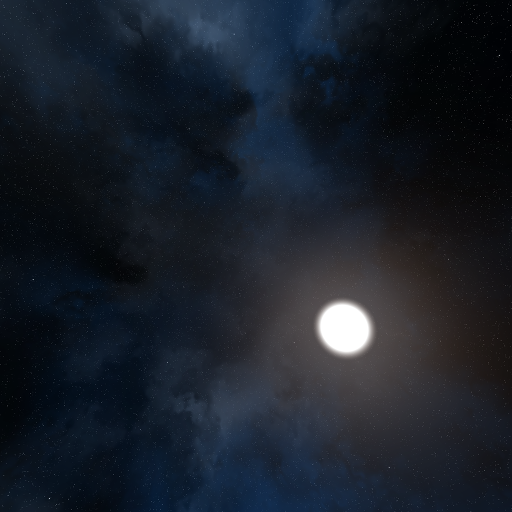
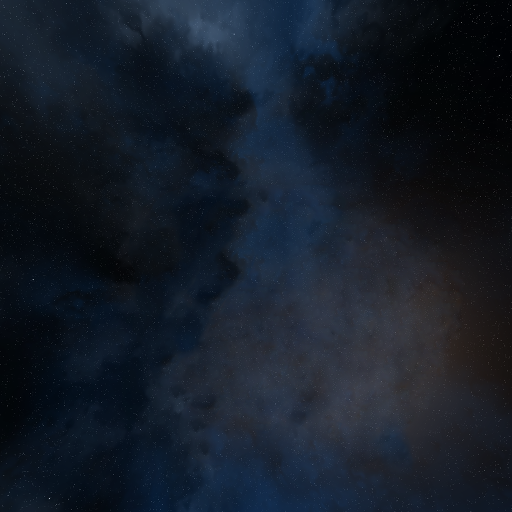
Fixed Skybox and Adjustments to the Camera
Fixed Skybox and Adjustments to the Camera

diff --git a/src/Camera/PerspectiveCamera.cpp b/src/Camera/PerspectiveCamera.cpp
@@ -4,19 +4,21 @@
 // initializes the camera
 void PerspectiveCamera::initialize(glm::vec3 centerPos1)
 {
+    distance = 30;
     // Computation for the perspective projection and view matrix
     glm::mat4 identity(1.0f); //Identity Matrix
-    projection = glm::perspective(glm::radians(60.0f), height / width, 0.1f, 100.f); //Projection Matrix
+    projection = glm::perspective(glm::radians(60.0f), height / width, 0.1f, 200.f); //Projection Matrix
 
     movement.x = 0;
     movement.y = 0;
     movement.z = 40.f;
 
-    cameraPos = glm::vec3(0, 0, -10); //Camera Position
+    cameraPos = glm::vec3(-distance, 0, 0); //Camera Position
     WorldUp = glm::vec3(0.f, 1.f, 0.f); //World Up Coordinates
 
     cameraPosMat = glm::translate(identity, cameraPos * -1.0f); //Camera Position Matrix
-    centerPos = glm::vec3(0.f, 3.f, 0.f); //Center Position Matrix
+    centerPos = centerPos1; //Center Position Matrix
+    //centerPos = glm::vec3(0.f, 3.f, 0.f); //Center Position Matrix
 
     F = glm::normalize(centerPos - cameraPos); //Forward Vector
     R = glm::normalize(glm::cross(F, WorldUp)); //Right Vector
@@ -96,17 +98,6 @@ void PerspectiveCamera::update(GLFWwindow* window, float deltaTime, glm::vec3 po
     //cameraPos.x = distance * cos(glm::radians(yaw)) + additional.x;
     //cameraPos.z = distance * sin(glm::radians(yaw)) + additional.z;
 
-    // clamps or limits the pitch and yaw so that the user cannot continuously rotate 
-    /*if (pitch > 90.f) {
-        pitch = 90.f;
-    }
-    else if (pitch < -90.f) {
-        pitch = -90.f;
-    }*/
-
-    /*if (yaw > 360.f || yaw < -360.f) {
-        yaw = 0.f;
-    }*/
     //}
     //else {
     //    firstMouse = true; // resets the firstMouse to initialize a new value on the mouse inputs later
@@ -123,11 +114,13 @@ void PerspectiveCamera::update(GLFWwindow* window, float deltaTime, glm::vec3 po
     U = glm::normalize(glm::cross(R, F));
     view = glm::lookAt(cameraPos, cameraPos + F, WorldUp);
 
-    if (glfwGetKey(window, GLFW_KEY_W) == GLFW_PRESS) {
+    // Moves based on keyboard input //
+    if (glfwGetKey(window, GLFW_KEY_W) == GLFW_PRESS) { // Front movement
        cameraPos.x += 20.f * F.x * deltaTime;
        cameraPos.z += 20.f * F.z * deltaTime;
        //cameraPos -= 20.f * F * deltaTime;
     }
+    
 
     /*if (glfwGetMouseButton(window, GLFW_MOUSE_BUTTON_1) == GLFW_PRESS) {*/
         glfwGetCursorPos(window, &xpos, &ypos);
@@ -143,7 +136,15 @@ void PerspectiveCamera::update(GLFWwindow* window, float deltaTime, glm::vec3 po
         lasty = ypos;
 
         yaw += xoffset * sens * deltaTime;
+        // moves the camera left or right depending on the yaw
+        /*cameraPos.x = distance * cos(glm::radians(yaw));
+        cameraPos.z = distance * sin(glm::radians(yaw));*/
+
         pitch += yoffset * sens * deltaTime;
+        // moves the camera upwards or downwards depending on the pitch
+        /*cameraPos.z = distance * cos(glm::radians(pitch));
+        cameraPos.y = distance * sin(glm::radians(pitch));*/
+
 
         /*Clamp Pitch so that it won't rotate endlessly upwards or downwards*/
         if (pitch > 89.0f)

diff --git a/src/main.cpp b/src/main.cpp
@@ -51,7 +51,7 @@ int main(void)
     // Create Player
     // Parameters for the Model3D "obj path, texture path, rgba or rgb, .vert path, .frag path, isPlayer"
     Player* player = new Player(
-        "3D/Models/UFO.obj",
+        "3D/Models/sus.obj",
         "3D/Textures/ufo_diffuse.png",
         "rgba",
         "Shaders/player.vert",
@@ -100,13 +100,13 @@ int main(void)
     OrthoCamera* oCam = new OrthoCamera();
 
     // the object transform
-    player->initVariables(glm::vec3(0, -5, 20), glm::vec3(1, 1, 1), glm::vec3(0.2f));
+    player->initVariables(glm::vec3(0, -7, 0), glm::vec3(1, -90, 1), glm::vec3(0.05f));
     planet->initVariables(glm::vec3(0, 7, -100), glm::vec3(0, 0, 0), glm::vec3(5.f));
     debris1->initVariables(glm::vec3(0, -5, 20), glm::vec3(0, 0, 0), glm::vec3(0.1f));
 
     // Initialize the values needed for the camera
-    pCam->initialize(glm::vec3(0, 0, -1));
-    oCam->initialize(glm::vec3(0, 0, -1));
+    pCam->initialize(glm::vec3(0, 0, 0));
+    oCam->initialize(glm::vec3(0, 0, 0));
 
     // Disables the Cursor
     glfwSetInputMode(window, GLFW_CURSOR, GLFW_CURSOR_DISABLED);
@@ -115,7 +115,7 @@ int main(void)
     float lastCDTime = glfwGetTime(); // Last time the camera was swaped
 
     /* Loop until the user closes the window */
-    while (!glfwWindowShouldClose(window))
+    while (!glfwWindowShouldClose(window) && glfwGetKey(window, GLFW_KEY_ESCAPE) != GLFW_PRESS)
     {
         /* Render here */
         glClear(GL_COLOR_BUFFER_BIT | GL_DEPTH_BUFFER_BIT);

diff --git a/src/Camera/PerspectiveCamera.h b/src/Camera/PerspectiveCamera.h
@@ -48,14 +48,6 @@ private:
 
     glm::vec3 WorldUp = glm::vec3(0, 1, 0);
 
-    double mousePosX;
-    double mousePosY;
-    double lastMousePosX;
-    double lastMousePosY;
-    double mouseOffsetX;
-    double mouseOffsetY;
-    bool firstMouse;
-
     GLfloat pitch;
     GLfloat yaw;
 

diff --git a/src/Player.cpp b/src/Player.cpp
@@ -13,6 +13,7 @@ Player::~Player()
 	Model3D::~Model3D();
 }
 
+
 /* Getters and Setters */
 glm::vec3 Player::getPosition()
 {
